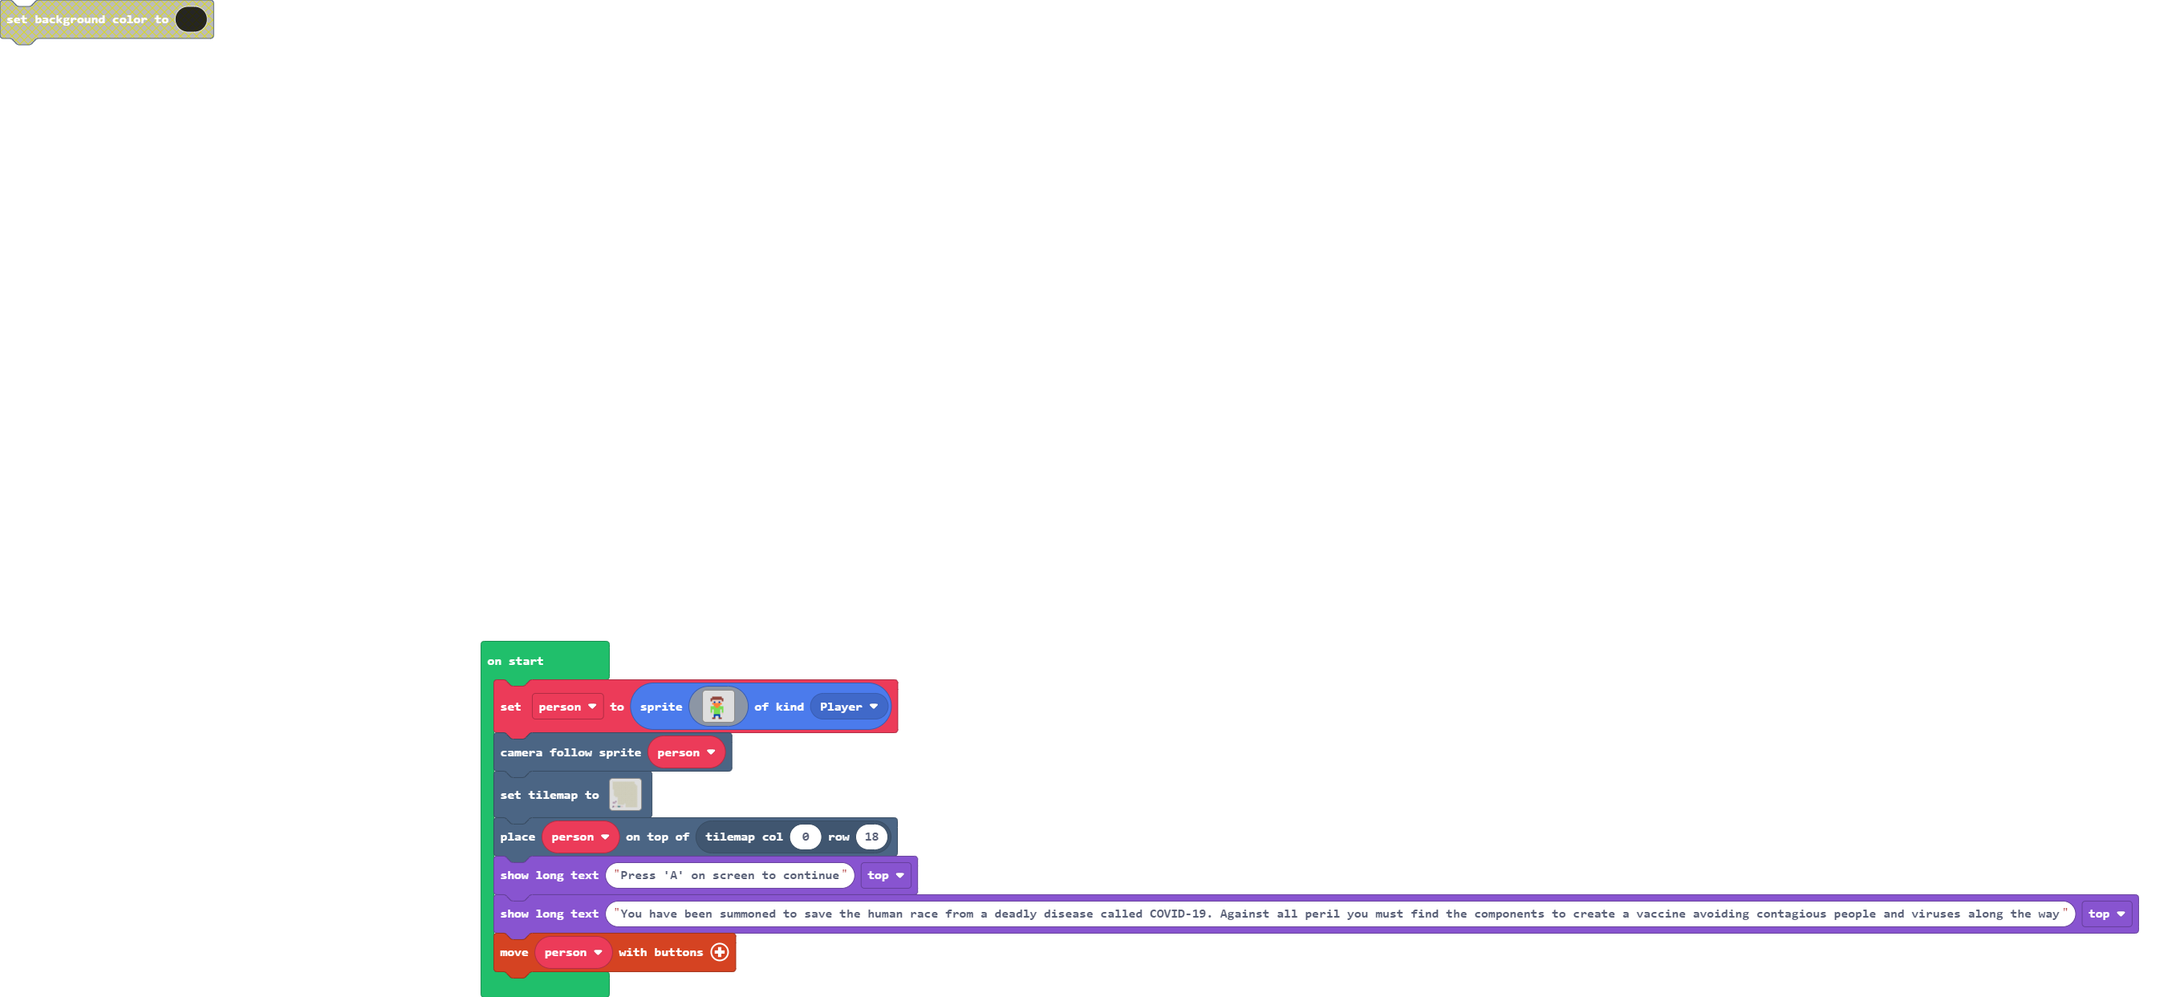
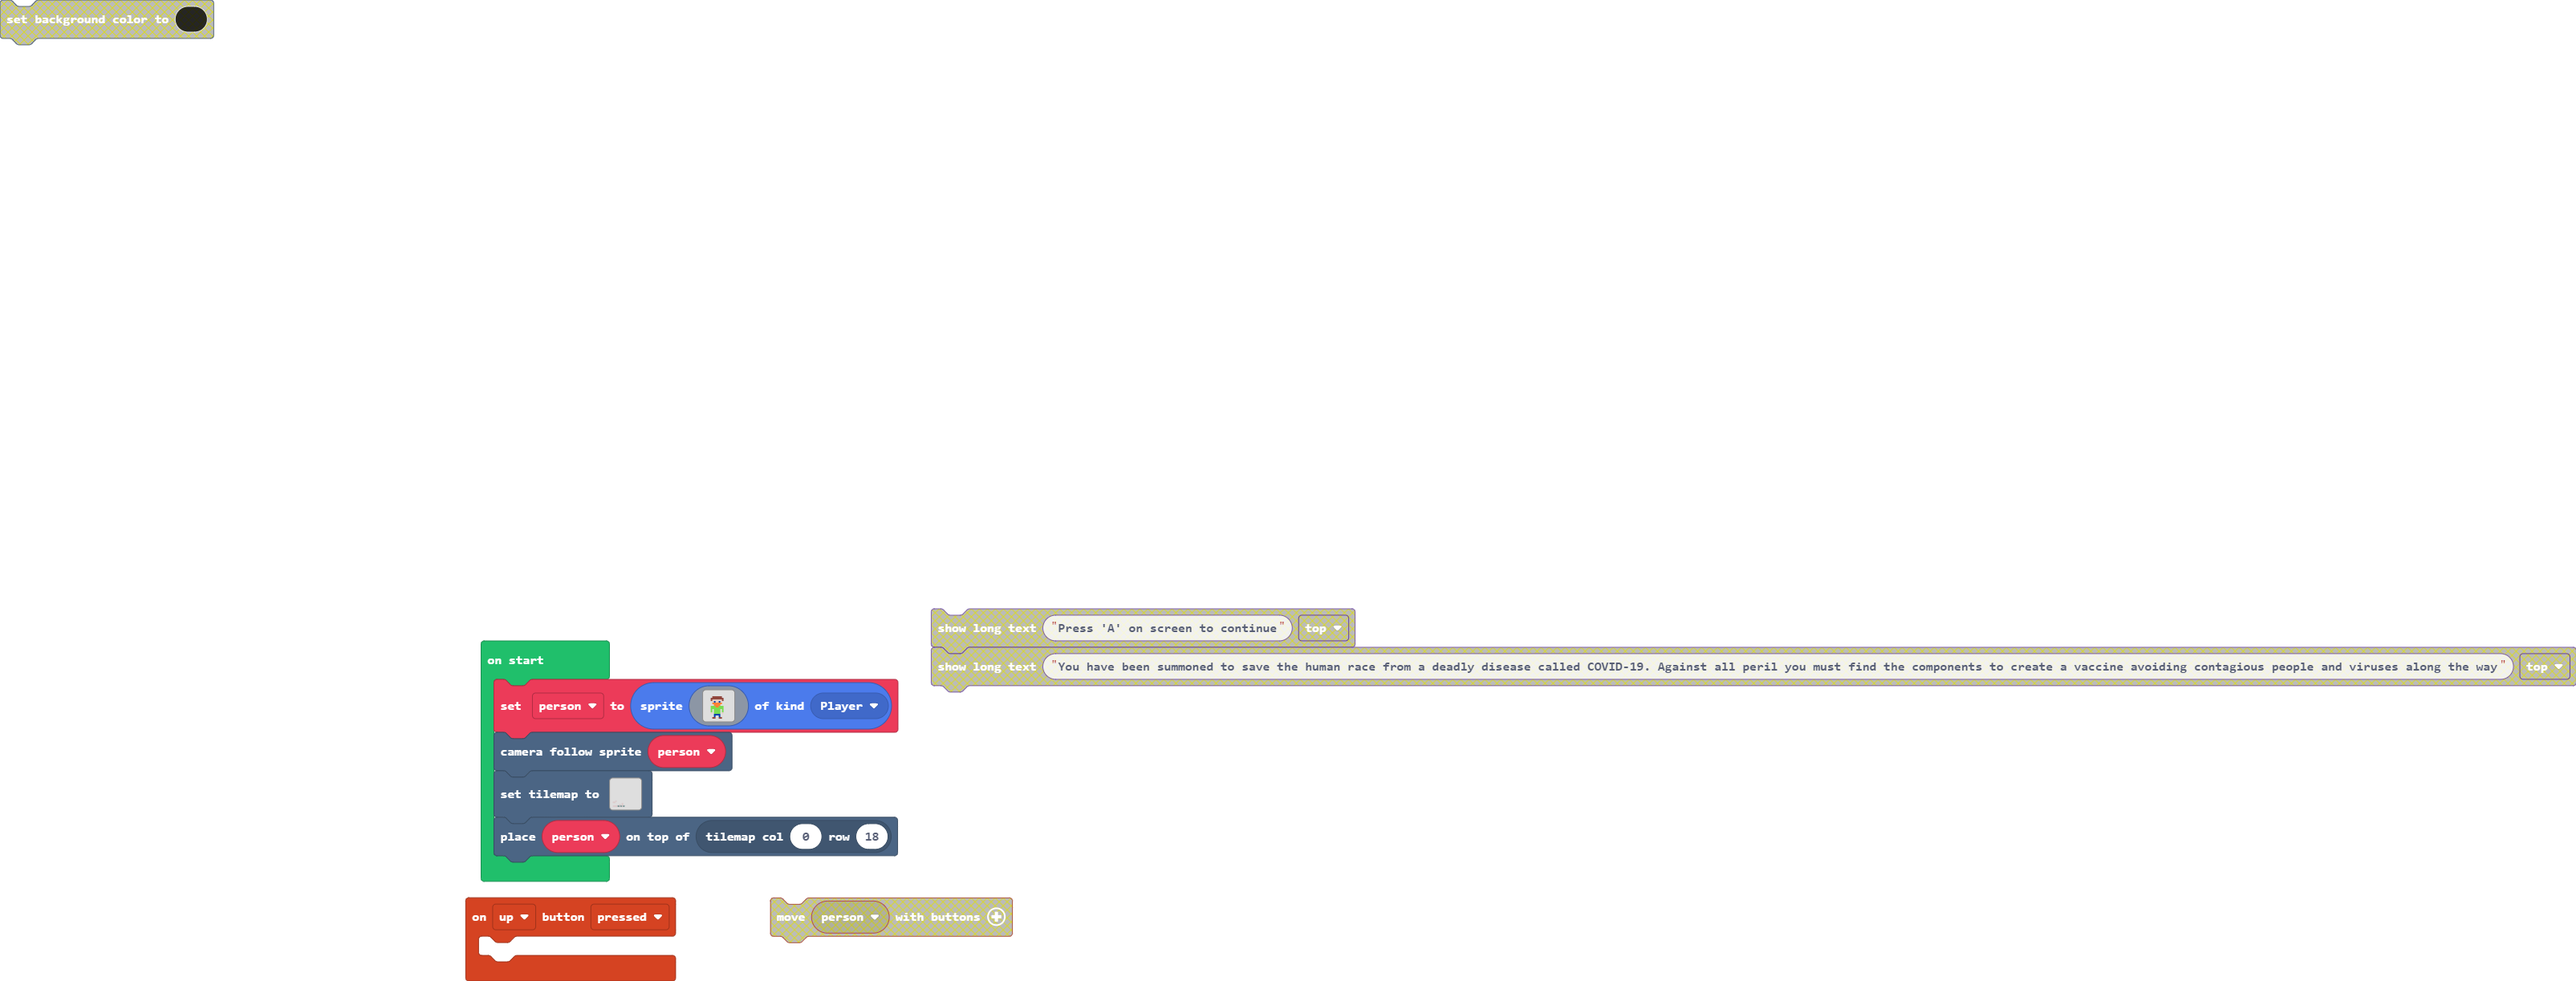
Scenery change

Changed region(s): [[0.1546, 0.6214, 1.0, 1.0], [0.0, 0.0, 0.1237, 0.0621]]

diff --git a/main.ts b/main.ts
@@ -1,3 +1,6 @@
+controller.up.onEvent(ControllerButtonEvent.Pressed, function () {
+	
+})
 let person = sprites.create(img`
     . . . . . . . . . . . . . . . . 
     . . . . . . . . . . . . . . . . 
@@ -17,7 +20,7 @@ let person = sprites.create(img`
     . . . . e e . . e e . . . . . . 
     `, SpriteKind.Player)
 scene.cameraFollowSprite(person)
-tiles.setTilemap(tiles.createTilemap(hex`1400140004040404040404040404040404040404040000000404040404040404040404040404040404000000040404040404040404040404040404040404000004040404040404040404040404040404040404000404040404040404040404040404040404040400040404040404040404040404040404040404040000040404040404040404040404040404040404000004040404040404040404040404040404040400000404040404040404040404040404040404040000040404040404040404040404040404040404000004040404040404040404040404040404040400000004040404040404040404040404040404040000000000040404040404040404040404040404000000000004040404040404040404040404040400000000000404040404040404040404040404040000000100040404040404040404040404040404000101000004040404040404040404040404040400000000000404040404000404040404040404040000000000000000000000040404040404040404000503030302020303000004040404040404040400`, img`
+tiles.setTilemap(tiles.createTilemap(hex`1400140000000000000000000000000000000000000000000000000000000000000000000000000000000000000000000000000000000000000000000000000000000000000000000000000000000000000000000000000000000000000000000000000000000000000000000000000000000000000000000000000000000000000000000000000000000000000000000000000000000000000000000000000000000000000000000000000000000000000000000000000000000000000000000000000000000000000000000000000000000000000000000000000000000000000000000000000000000000000000000000000000000000000000000000000000000000000000000000000000000000000000000000000000000000000000000000000000000000000000000000000000000200000000000000000000000000000000000202000000000000000000000000000000000000000000000000000200000000000000000000000000000000000200020000000000000000000000000201010103020302030000000000000000000000`, img`
     ....................
     ....................
     ....................
@@ -33,13 +36,10 @@ tiles.setTilemap(tiles.createTilemap(hex`140014000404040404040404040404040404040
     ....................
     ....................
     ....................
-    ....................
-    ....................
-    ....................
-    ....................
-    ....................
-    `, [myTiles.transparency16,sprites.dungeon.floorDark0,sprites.builtin.crowd0,sprites.dungeon.floorLight4,sprites.castle.tilePath2,sprites.dungeon.darkGroundNorth], TileScale.Sixteen))
+    ..2.................
+    22..................
+    .......2............
+    .....2.2............
+    2222.2.2............
+    `, [myTiles.transparency16,sprites.dungeon.floorLight4,sprites.dungeon.floorLight0,sprites.builtin.crowd2], TileScale.Sixteen))
 tiles.placeOnTile(person, tiles.getTileLocation(0, 18))
-game.showLongText("Press 'A' on screen to continue", DialogLayout.Top)
-game.showLongText("You have been summoned to save the human race from a deadly disease called COVID-19. Against all peril you must find the components to create a vaccine avoiding contagious people and viruses along the way", DialogLayout.Top)
-controller.moveSprite(person)
